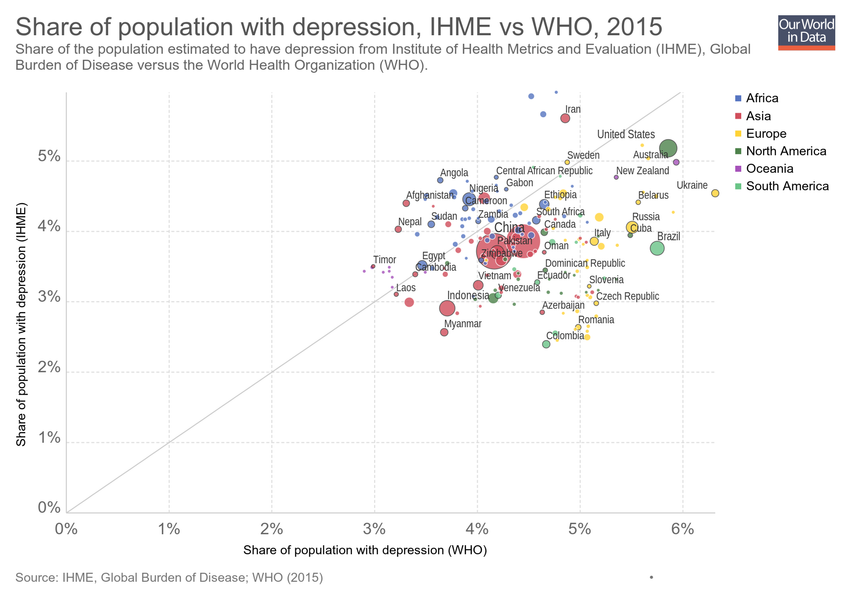
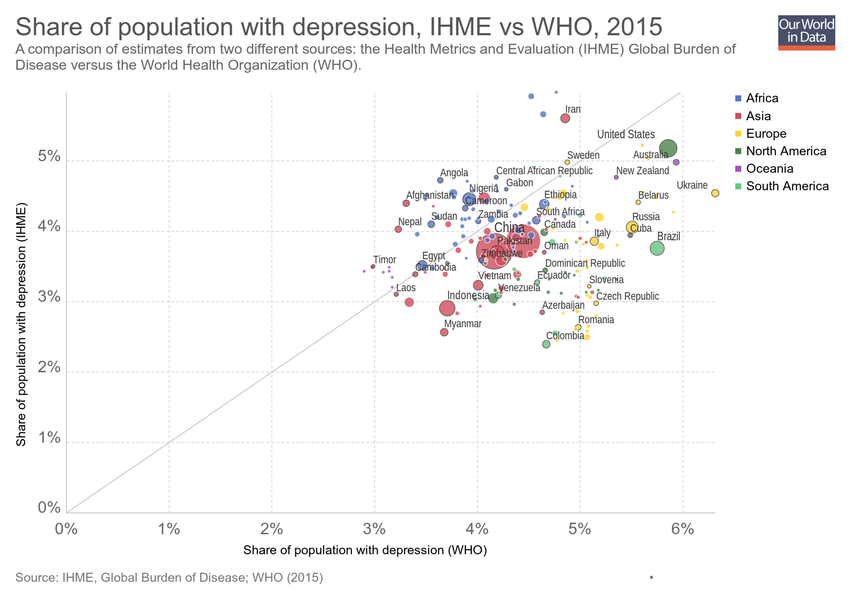
Updating chart depression-ihme-vs-who

Changed region(s): [[0.0, 0.06, 0.8871, 0.12]]

diff --git a/grapher/depression-ihme-vs-who.html b/grapher/depression-ihme-vs-who.html
@@ -1,4 +1,4 @@
-<!doctype html><html><head><meta name="viewport" content="width=device-width, initial-scale=1" /><title>Share of population with depression, IHME vs WHO - Our World in Data</title><meta name="description" content="Share of the population estimated to have depression from Institute of Health Metrics and Evaluation (IHME), Global Burden of Disease versus the World Health Organization (WHO)." /><link rel="canonical" href="https://ourworldindata.org/grapher/depression-ihme-vs-who" /><meta property="fb:app_id" content="1149943818390250" /><meta property="og:url" content="https://ourworldindata.org/grapher/depression-ihme-vs-who" /><meta property="og:title" content="Share of population with depression, IHME vs WHO" /><meta property="og:description" content="Share of the population estimated to have depression from Institute of Health Metrics and Evaluation (IHME), Global Burden of Disease versus the World Health Organization (WHO)." /><meta property="og:image" content="https://ourworldindata.org/grapher/exports/depression-ihme-vs-who.png?v=1" /><meta property="og:image:width" content="850" /><meta property="og:image:height" content="600" /><meta property="og:site_name" content="Our World in Data" /><meta name="twitter:card" content="summary_large_image" /><meta name="twitter:site" content="@OurWorldInData" /><meta name="twitter:creator" content="@OurWorldInData" /><meta name="twitter:title" content="Share of population with depression, IHME vs WHO" /><meta name="twitter:description" content="Share of the population estimated to have depression from Institute of Health Metrics and Evaluation (IHME), Global Burden of Disease versus the World Health Organization (WHO)." /><meta name="twitter:image" content="https://ourworldindata.org/grapher/exports/depression-ihme-vs-who.png?v=1" /><style>
+<!doctype html><html><head><meta name="viewport" content="width=device-width, initial-scale=1" /><title>Share of population with depression, IHME vs WHO - Our World in Data</title><meta name="description" content="A comparison of estimates from two different sources: the Health Metrics and Evaluation (IHME) Global Burden of Disease versus the World Health Organization (WHO)." /><link rel="canonical" href="https://ourworldindata.org/grapher/depression-ihme-vs-who" /><meta property="fb:app_id" content="1149943818390250" /><meta property="og:url" content="https://ourworldindata.org/grapher/depression-ihme-vs-who" /><meta property="og:title" content="Share of population with depression, IHME vs WHO" /><meta property="og:description" content="A comparison of estimates from two different sources: the Health Metrics and Evaluation (IHME) Global Burden of Disease versus the World Health Organization (WHO)." /><meta property="og:image" content="https://ourworldindata.org/grapher/exports/depression-ihme-vs-who.png?v=2" /><meta property="og:image:width" content="850" /><meta property="og:image:height" content="600" /><meta property="og:site_name" content="Our World in Data" /><meta name="twitter:card" content="summary_large_image" /><meta name="twitter:site" content="@OurWorldInData" /><meta name="twitter:creator" content="@OurWorldInData" /><meta name="twitter:title" content="Share of population with depression, IHME vs WHO" /><meta name="twitter:description" content="A comparison of estimates from two different sources: the Health Metrics and Evaluation (IHME) Global Burden of Disease versus the World Health Organization (WHO)." /><meta name="twitter:image" content="https://ourworldindata.org/grapher/exports/depression-ihme-vs-who.png?v=2" /><style>
         html, body {
             height: 100%;
             margin: 0;
@@ -20,8 +20,8 @@
         }
     </style><noscript><style>
                     figure { display: none !important; }
-                </style></noscript><link rel="stylesheet" href="https://ourworldindata.org/grapher/assets/commons.bundle.dcbbe53805c487d5e57617b10ac73a8a.css" /><link rel="preload" href="/grapher/data/variables/84302+95195+72+123.json?v=1" as="fetch" crossorigin /></head><body class="singleChart"><figure data-grapher-src="/grapher/depression-ihme-vs-who"></figure><noscript id="fallback"><img src="/grapher/exports/depression-ihme-vs-who.svg" /><p>Interactive visualization requires JavaScript</p></noscript><script src="https://cdn.polyfill.io/v2/polyfill.min.js?features=es6,fetch"></script><script src="https://ourworldindata.org/grapher/assets/commons.bundle.db4e4065dcbf33bcd3d7.js"></script><script src="https://ourworldindata.org/grapher/assets/charts.bundle.db4e4065dcbf33bcd3d7.js"></script><script>
-        var jsonConfig = {"map":{"projection":"World","targetYear":2016,"variableId":84302,"colorSchemeLabels":[],"colorSchemeValues":[],"customNumericColors":[],"customCategoryColors":{},"customCategoryLabels":{},"customHiddenCategories":{}},"tab":"chart","slug":"depression-ihme-vs-who","type":"ScatterPlot","title":"Share of population with depression, IHME vs WHO","xAxis":{"min":0,"scaleType":"linear"},"yAxis":{"min":0,"scaleType":"linear"},"version":1,"subtitle":"Share of the population estimated to have depression from Institute of Health Metrics and Evaluation (IHME), Global Burden of Disease versus the World Health Organization (WHO).","hasMapTab":false,"stackMode":"absolute","dimensions":[{"display":{"name":"Share of population with depression (IHME)","unit":"%"},"property":"y","variableId":84302},{"display":{"name":"Share of population with depression (WHO)","unit":"%"},"property":"x","variableId":95195},{"display":{},"property":"size","variableId":72},{"display":{},"property":"color","variableId":123}],"sourceDesc":"IHME, Global Burden of Disease; WHO (2015)","hasChartTab":true,"isPublished":true,"selectedData":[],"addCountryMode":"add-country","comparisonLine":{},"id":2606};
+                </style></noscript><link rel="stylesheet" href="https://ourworldindata.org/grapher/assets/commons.bundle.dcbbe53805c487d5e57617b10ac73a8a.css" /><link rel="preload" href="/grapher/data/variables/84302+95195+72+123.json?v=2" as="fetch" crossorigin /></head><body class="singleChart"><figure data-grapher-src="/grapher/depression-ihme-vs-who"></figure><noscript id="fallback"><img src="/grapher/exports/depression-ihme-vs-who.svg" /><p>Interactive visualization requires JavaScript</p></noscript><script src="https://cdn.polyfill.io/v2/polyfill.min.js?features=es6,fetch"></script><script src="https://ourworldindata.org/grapher/assets/commons.bundle.db4e4065dcbf33bcd3d7.js"></script><script src="https://ourworldindata.org/grapher/assets/charts.bundle.db4e4065dcbf33bcd3d7.js"></script><script>
+        var jsonConfig = {"id":2606,"map":{"projection":"World","targetYear":2016,"variableId":84302,"colorSchemeLabels":[],"colorSchemeValues":[],"customNumericColors":[],"customCategoryColors":{},"customCategoryLabels":{},"customHiddenCategories":{}},"tab":"chart","slug":"depression-ihme-vs-who","type":"ScatterPlot","title":"Share of population with depression, IHME vs WHO","xAxis":{"min":0,"scaleType":"linear"},"yAxis":{"min":0,"scaleType":"linear"},"version":2,"subtitle":"A comparison of estimates from two different sources: the Health Metrics and Evaluation (IHME) Global Burden of Disease versus the World Health Organization (WHO).","hasMapTab":false,"stackMode":"absolute","dimensions":[{"display":{"name":"Share of population with depression (IHME)","unit":"%"},"property":"y","variableId":84302},{"display":{"name":"Share of population with depression (WHO)","unit":"%"},"property":"x","variableId":95195},{"display":{},"property":"size","variableId":72},{"display":{},"property":"color","variableId":123}],"sourceDesc":"IHME, Global Burden of Disease; WHO (2015)","hasChartTab":true,"isPublished":true,"selectedData":[],"addCountryMode":"add-country","comparisonLine":{}};
         var figure = document.getElementsByTagName("figure")[0];
         try {
             window.App = {};
